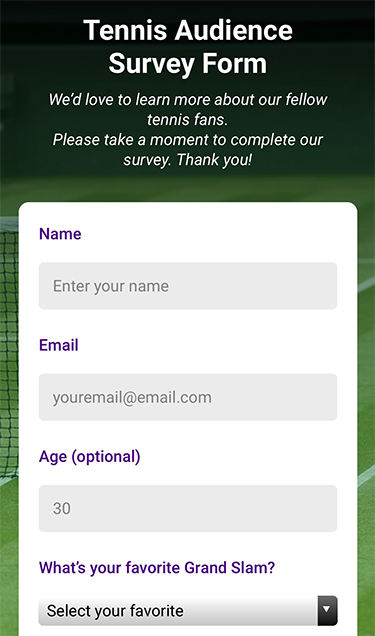
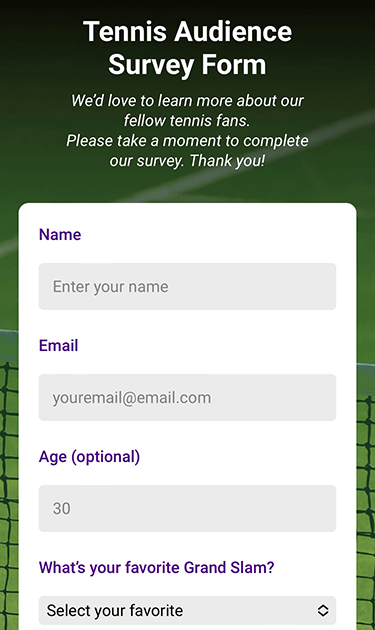
update background image

diff --git a/style.css b/style.css
@@ -23,15 +23,15 @@ body::before {
   left: 0;
   height: 100%;
   width: 100%;
-  z-index: -1; 
-  background-image: linear-gradient(0deg, rgba(20, 160, 62, 0.3), rgba(0, 0, 0, 0.4)), url(images/wimbledon-tennis-grass-court.jpg);
+  z-index: -1;     
+  background-image: linear-gradient(0deg, rgba(20, 160, 62, 0.2), rgba(0, 0, 0, 0.9)), url(images/tennis-court.jpg);          
   background-size: cover;
   background-repeat: no-repeat;
-  background-position: center;  
+  background-position: top center;   
 } 
 
 body {
-  padding-bottom: 3rem;
+  padding-bottom: 3rem;  
 }  
 
 .container {
@@ -184,7 +184,8 @@ textarea {
   border-radius: 10px;
   text-transform: uppercase;
   cursor: pointer;
-  transition: all 0.3s ease-in-out;  
+  transition: all 0.3s ease-in-out;
+  min-width: 30%;  
 }
 
 /* FOCUS STATE */ 
@@ -234,6 +235,8 @@ textarea {
   .description {
     font-size: 1rem;
     line-height: 1.3;
+    max-width: 90%;
+    margin: 0 auto;
   }
 
   #survey-form {
@@ -252,11 +255,7 @@ textarea {
     margin: 3rem auto 1.75rem;   
     font-size: 1.125rem; 
     width: 100%;    
-  } 
-  
-  body::before {
-    background-image: linear-gradient(0deg, rgba(20, 160, 62, 0.3), rgba(0, 0, 0, 0.8)), url(images/wimbledon-tennis-grass-court.jpg); 
-  }
+  }  
 }
 
 @media (max-width: 500px) {
@@ -271,4 +270,10 @@ textarea {
   .radio-wrap:not(:last-child), .checkbox-wrap:not(:last-child) {
     margin-bottom: 1rem;
   }  
+}
+
+@media (max-width: 330px) {
+  .description {    
+    max-width: 100%;    
+  }
 }

diff --git a/index.html b/index.html
@@ -9,6 +9,7 @@
   <link rel="preconnect" href="https://fonts.gstatic.com" crossorigin>
   <link href="https://fonts.googleapis.com/css2?family=Roboto:ital,wght@0,400;0,500;0,700;1,400&display=swap" rel="stylesheet">
   <link rel="stylesheet" href="style.css">
+  <link rel="shortcut icon" href="images/favicon.ico" type="image/x-icon">
 </head>
 <body>
   <main class="container">
